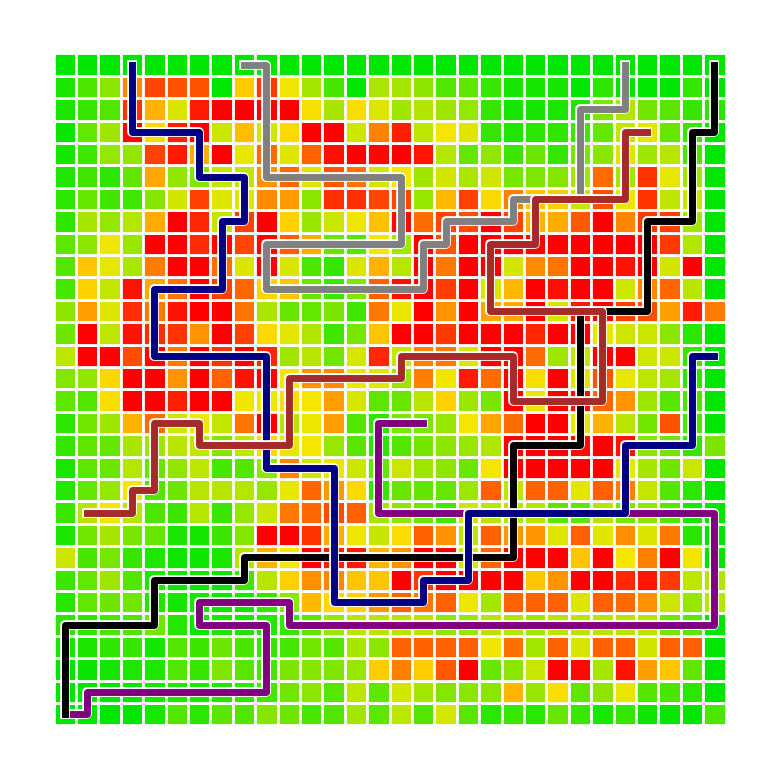
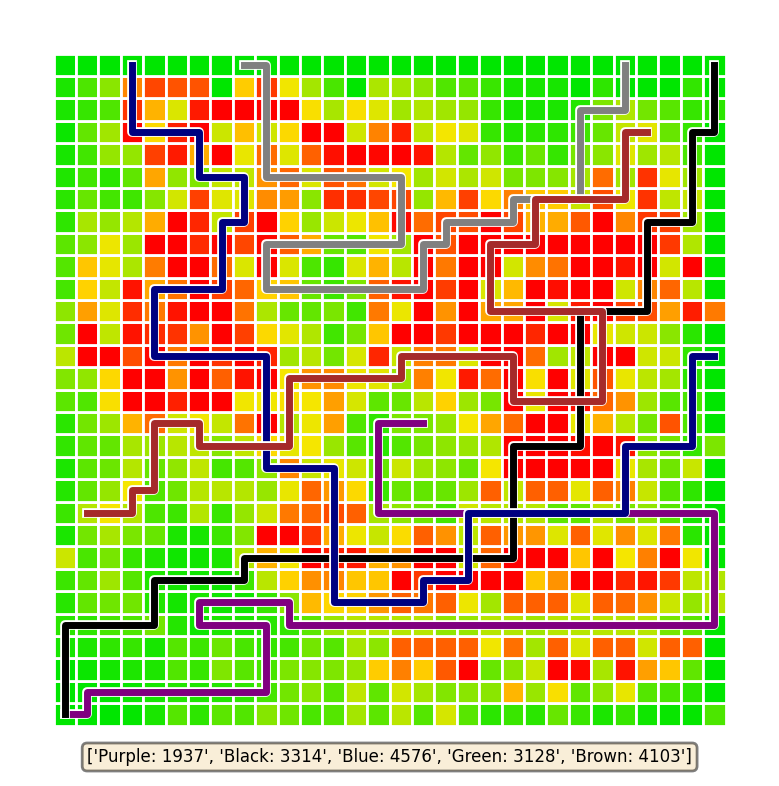
New data on visualisation

Changed region(s): [[0.0616, 0.1232, 0.9551, 0.9859], [0.3081, 0.0616, 0.3389, 0.0924]]

diff --git a/squares.py b/squares.py
@@ -3,7 +3,7 @@ import numpy as np
 import random
 
 
-def mapPlot(squares,gridSize,linesDictSquares,printNumber, noDraw):
+def mapPlot(squares,gridSize,linesDictSquares, linesDictPollution, printNumber, noDraw):
     #don't draw anything
     if(noDraw):
         return
@@ -21,12 +21,11 @@ def mapPlot(squares,gridSize,linesDictSquares,printNumber, noDraw):
                 else:
                     #handle missing data points before interpolation. set color to white
                     rectangle = plt.Rectangle((n,m), 1, 1, fc='white', ec='white')
-                    #print("no data, visualising as white square")
                 plt.gca().add_patch(rectangle)
         plt.axis('scaled')
         plt.axis('off')
         #plotting bus lines. each has it's own distinct color
-        colorList=['purple','black','navy','grey','brown']
+        colorList=['Purple','black','navy','grey','brown']
         for index, key in enumerate(linesDictSquares):
             a=linesDictSquares[key]
             x1=[int(i)%gridSize+0.5 for i in a]
@@ -34,6 +33,18 @@ def mapPlot(squares,gridSize,linesDictSquares,printNumber, noDraw):
             plt.plot(x1, y1, linewidth=3.5, color='white')
             plt.plot(x1, y1, linewidth=2.5, color=colorList[index])
 
+        #printing legend
+        labels=[]
+        props = dict(boxstyle='round', facecolor='wheat', alpha=0.5)
+        for key in linesDictPollution:
+            labels.append(key+': '+str(linesDictPollution[key]))
+
+        if not labels:
+            labels='[\'Purple: 0000\', \'Black: 0000\', \'Blue: 0000\', \'Green: 0000\', \'Brown: 0000\']'
+        text=plt.text(1.5,-1,labels ,fontsize=6,
+        horizontalalignment='left', verticalalignment='top',
+                bbox=props)
         #finalizing and saving pictures
-            plt.savefig('img/'+str(printNumber)+'-bcflow.png',
+        plt.savefig('img/'+str(printNumber)+'-bcflow.png',
                     bbox_inches='tight', dpi=200)
+        text.set_text('')

diff --git a/evaluateLines.py b/evaluateLines.py
@@ -10,7 +10,7 @@ from interpolate import interpolate
 # GLOBAL PARAMETERS
 gridSize=30
 printNumber=0 #for saving plots, change later
-noDraw=True #set to True if you do not wish to draw pictures
+noDraw=False #set to True if you do not wish to draw pictures
 pollutionValues=np.zeros(gridSize**2)
 linesDictSquares={} #dictionary containing line names as keys, and routes as values
 linesDictPolution={} #dictionary containing line names as keys, and pollution as values
@@ -44,15 +44,14 @@ with open("data/squares.dat", "r") as f:
 
 
 #plot map with initial pollution levels
-mapPlot(pollutionValues, gridSize, linesDictSquares, printNumber, noDraw)
+mapPlot(pollutionValues, gridSize, linesDictSquares, linesDictPolution, printNumber, noDraw)
 printNumber+=1
+
 #call interpolation function for missing data
 for square in noDataSquares:
     pollutionValues[square]=interpolate(gridSize,square,pollutionValues)
     dataInterpolated=True
-#plot map with interpolations
-mapPlot(pollutionValues, gridSize, linesDictSquares, printNumber, noDraw)
-printNumber+=1
+
 # evaluate pollution levels on each line (this has to be reimplemented better)
 for key in linesDictSquares:
     linePollutionLevel=0
@@ -64,6 +63,9 @@ for key in linesDictSquares:
         #else we assume it's zero
     linesDictPolution[key]=int(linePollutionLevel)
 
+#plot map with interpolations
+mapPlot(pollutionValues, gridSize, linesDictSquares, linesDictPolution, printNumber, noDraw)
+printNumber+=1
 print('Initial pollution level of transport lines:\n', dict(sorted(linesDictPolution.items(),key=lambda item: item[1],
     reverse=True)))
 
@@ -88,7 +90,7 @@ for key in linesDictSquares:
         #else we assume it's zero
     linesDictPolution[key]=int(linePollutionLevel)
     #plot so far
-    mapPlot(pollutionValues, gridSize, linesDictSquares, printNumber, noDraw)
+    mapPlot(pollutionValues, gridSize, linesDictSquares, linesDictPolution, printNumber, noDraw)
     printNumber+=1
 
 #print sorted dictionary
